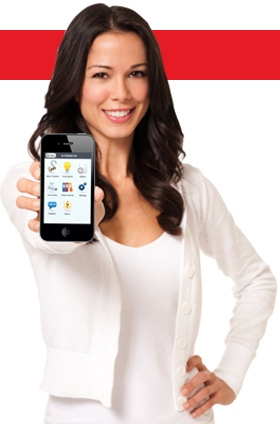
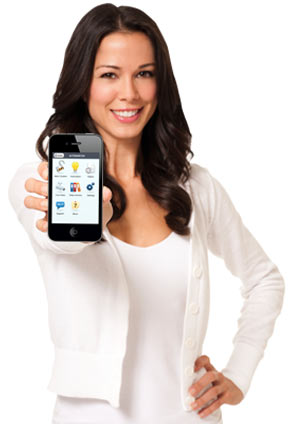
made changes to the generic review pages

diff --git a/src/apps/common/static/css/affiliates/generic-review-page/generic-review-page.css b/src/apps/common/static/css/affiliates/generic-review-page/generic-review-page.css
@@ -626,11 +626,10 @@ ul#child-navigation li.active{background:none;}ul#child-navigation li.active.act
 .left-column h2 a:hover{color:#0066b3;text-decoration:underline;}
 .left-column h3{color:#0069aa;font-size:20px;border-bottom:none;padding:8px 0px 4px;}
 .left-column p{margin-bottom:10px;font-size:14px;text-align:justify;line-height:22px;color:#353535;}
-.main-content{height:424px;}.main-content h1{color:#ffffff;width:5000px;right:16px;position:absolute;line-height:50px;height:50px;text-align:right;top:32px;z-index:15;font-weight:300;font-size:24px;}
-.main-content h2{position:absolute;top:1px;z-index:10;font-size:26px;color:#e51b24;font-weight:normal;left:200px;text-transform:uppercase;letter-spacing:.5px;}
+.main-content{height:424px;}.main-content h1{color:#e51b24;width:500px;right:16px;position:absolute;line-height:50px;height:50px;text-align:right;top:50px;z-index:15;font-weight:300;font-size:24px;}
+.main-content h2{position:absolute;top:28px;z-index:10;font-size:26px;color:#e51b24;font-weight:normal;left:200px;text-transform:uppercase;letter-spacing:.5px;}
 .main-content .main-woman{position:absolute;top:0px;z-index:1;}
 .main-content ul{position:absolute;bottom:0;right:0;z-index:500;width:341px;color:#0069aa;font-weight:bold;}.main-content ul li{margin-bottom:8px;font-size:16px;line-height:20px;background:url(/static/img/extra/form-check.png) -3px -1px no-repeat;padding:10px 0 5px 40px;}
-.main-content span{position:absolute;width:5000px;right:0px;text-align:right;z-index:-1;padding-bottom:16px;border-bottom:50px solid #e51b24;top:-7px;}
 .right-column{width:280px;margin:0 0 15px;float:left;position:relative;width:280px;margin:0 0 15px;float:left;position:relative;margin-top:46px;}.right-column h1{color:#0069aa;font-size:26px;font-weight:normal;line-height:36px;margin-bottom:10px;letter-spacing:-1px;}
 .right-column h2{color:#333333;font-size:28px;font-weight:300;line-height:28px;margin-bottom:10px;letter-spacing:-1px;}.right-column h2 a{color:#333333;text-decoration:none;}
 .right-column h2 a:hover{color:#0066b3;text-decoration:underline;}
@@ -647,6 +646,7 @@ ul#child-navigation li.active{background:none;}ul#child-navigation li.active.act
 .quote-form ul li img.silver{bottom:5px;}
 .quote-form ul li img.platinum{bottom:1px;}
 .quote-form ul li:hover{background-image:-moz-linear-gradient(center top, #fcfcfc, #cccccc);background-image:-webkit-gradient(linear, left top, left bottom, from(#fcfcfc), to(#cccccc));border:1px solid #eee;border-bottom:1px solid #ccc;-webkit-box-shadow:0 1px 1px rgba(0, 0, 0, 0.3);-moz-box-shadow:0 1px 1px rgba(0, 0, 0, 0.3);box-shadow:0 1px 1px rgba(0, 0, 0, 0.3);}
+#call-box{margin:0 0 8px;}
 #top-consumer,#consumer-digest{width:416px;margin:0 0 15px;float:left;position:relative;width:416px;margin:0 0 15px;float:left;position:relative;border:1px solid #888888;}#top-consumer h1,#consumer-digest h1{color:#0069aa;font-size:26px;font-weight:normal;line-height:36px;margin-bottom:10px;letter-spacing:-1px;}
 #top-consumer h2,#consumer-digest h2{color:#333333;font-size:28px;font-weight:300;line-height:28px;margin-bottom:10px;letter-spacing:-1px;}#top-consumer h2 a,#consumer-digest h2 a{color:#333333;text-decoration:none;}
 #top-consumer h2 a:hover,#consumer-digest h2 a:hover{color:#0066b3;text-decoration:underline;}
@@ -680,5 +680,4 @@ ul#child-navigation li.active{background:none;}ul#child-navigation li.active.act
 #main-features h2 a:hover{color:#0066b3;text-decoration:underline;}
 #main-features h3{color:#0069aa;font-size:20px;border-bottom:none;padding:8px 0px 4px;}
 #main-features p{margin-bottom:10px;font-size:14px;text-align:justify;line-height:22px;color:#353535;}
-#call-box{margin:0 0 32px;}
 #small-footer{border-top:2px solid #e51b24;}#small-footer p{width:960px;margin:0 auto;text-align:justify;font-size:10px;line-height:14px;padding:16px 0 32px;}

diff --git a/src/templates/affiliates/generic-review-page/index.html b/src/templates/affiliates/generic-review-page/index.html
@@ -1,6 +1,17 @@
-{% extends "affiliates/generic-review-page/base.html" %}
+{% extends "base.html" %}
 {% load content_filters content_tags sekizai_tags testimonial_tags %}
+{% block page_title %}Free GE Home Security Systems and Home Alarms | Protect America{% endblock %}
 
+{% block css %}
+    <link rel="stylesheet" href="{{ STATIC_URL }}css/affiliates/generic-review-page/generic-review-page.css">
+<script type="text/javascript" src="http://use.typekit.com/exw1shj.js"></script>
+<script type="text/javascript">try{Typekit.load();}catch(e){}</script>
+{% endblock %}
+{% block robot_tags %}
+    <META NAME="ROBOTS" CONTENT="NOINDEX, NOFOLLOW">
+{% endblock %}
+{% block quick-links %}
+{% endblock %}
 {% block content %}
 <div class="wrapper">
     <div class="left-column main-content">
@@ -55,9 +66,13 @@
         </div>
     </div>
     {% endcomment %}
-    {% testimonial_search "protect america" "limit=10&words=64" %}
     <div class="clear"></div>
     {% include "order/call-box.html" %}
+
+</div>
+    {% testimonial_search "protect america" "limit=10&words=64" %}
+    <div class="clear"></div>
+<div class="wrapper">
     <div class="clear"></div>
     <div class="left-column text">
         <h2>How We Exceed Above the Rest</h2>
@@ -94,6 +109,10 @@
         <div class="clear"></div>
     </div>
     <div class="clear"></div>
+    
+    {% include "order/call-box.html" %}
+    
+    <div class="clear"></div>
     <div id="main-features">
         <h2>The Best Home Security Systems and Accessories</h2>
         <p>Protect America only uses high quality security systems made by GE. Our products are so reliable, we offer a Lifetime Replacement Parts Warranty with each security system sold. If a part breaks, we replace it. No limitations or tricks, unlike some companies that only offer a 2-year, limited warranty.</p>
@@ -103,8 +122,6 @@
         <h2>Protect America is "the company to beat!"</h2>
         <p>A Secure Life has noticed it and you should too! No company can match Protect America’s affordability and quality. That’s why A Secure Life said, "Customers who choose Protect America over comparable systems from many other home security providers save money and receive products that have more options."</p>
     </div>
-    <div class="clear"></div>
-    {% include "order/call-box.html" %}
     {% addtoblock "js" %}
         <script type="text/javascript" src="{{ STATIC_URL }}js/jquery.cycle.all.min.js"></script>
         <script type="text/javascript">
@@ -119,4 +136,11 @@
 
 </div>
 
+{% endblock %}
+{% block page-product %}
+    <h2>Platinum Package</h2>
+    <p><span>Price Today: <strong>FREE*</strong></span>monthly monitoring starting at $42.99/mo</p>
+    <div class="button-submit">
+        <a href="{% url order-package %}?package=platinum" onClick="_gaq.push(['_trackEvent', 'Order Now', 'Order Now Package Footer Click', 'Platinum-B']);">Order Now ></a>
+    </div>
 {% endblock %}

diff --git a/src/apps/common/static/less/affiliates/generic-review-page/generic-review-page.less b/src/apps/common/static/less/affiliates/generic-review-page/generic-review-page.less
@@ -25,21 +25,21 @@
 .main-content {
     height: 424px;
     h1 {
-        color: @white;
-        width: 5000px;
+        color: @red;
+        width: 500px;
         right: 16px;
         position: absolute;
         line-height: 50px;
         height: 50px;
         text-align: right;
-        top: 32px;
+        top: 50px;
         z-index: 15;
         font-weight: 300;
         font-size: 24px;
     }
     h2 {
         position: absolute;
-        top: 1px;
+        top: 28px;
         z-index: 10;
         font-size: 26px;
         color: @red;
@@ -70,17 +70,7 @@
             padding: 10px 0 5px 40px;
         }
     }
-    span {
-        position: absolute;
-        width: 5000px;
-        right: 0px;
-        text-align: right;
-        z-index: -1;
-        padding-bottom: 16px;
-        border-bottom: 50px solid @red;
-        top: -7px;
-        
-    }
+
 }
 .right-column {
     .content-box(280px);
@@ -141,6 +131,9 @@
             }
         }
     }
+}
+#call-box {
+    margin: 0 0 8px;
 }
 #top-consumer, #consumer-digest {
     .content-box(416px); 
@@ -255,9 +248,6 @@
 }
 #main-features {
     .content-box();
-}
-#call-box {
-    margin: 0 0 32px;
 }
 /***** Footer *****/
 #small-footer {

diff --git a/src/templates/affiliates/generic-review-page/base.html b/src/templates/affiliates/generic-review-page/base.html
@@ -9,7 +9,6 @@
     <META NAME="ROBOTS" CONTENT="NOINDEX, NOFOLLOW">
 {% block css %}
     <link rel="stylesheet" href="{{ STATIC_URL }}css/affiliates/generic-review-page/generic-review-page.css">
-    <link href="https://plus.google.com/113573642727337197280" rel="publisher" />
 {% endblock %}
 {% block google_analytics %}
 <script type="text/javascript">
